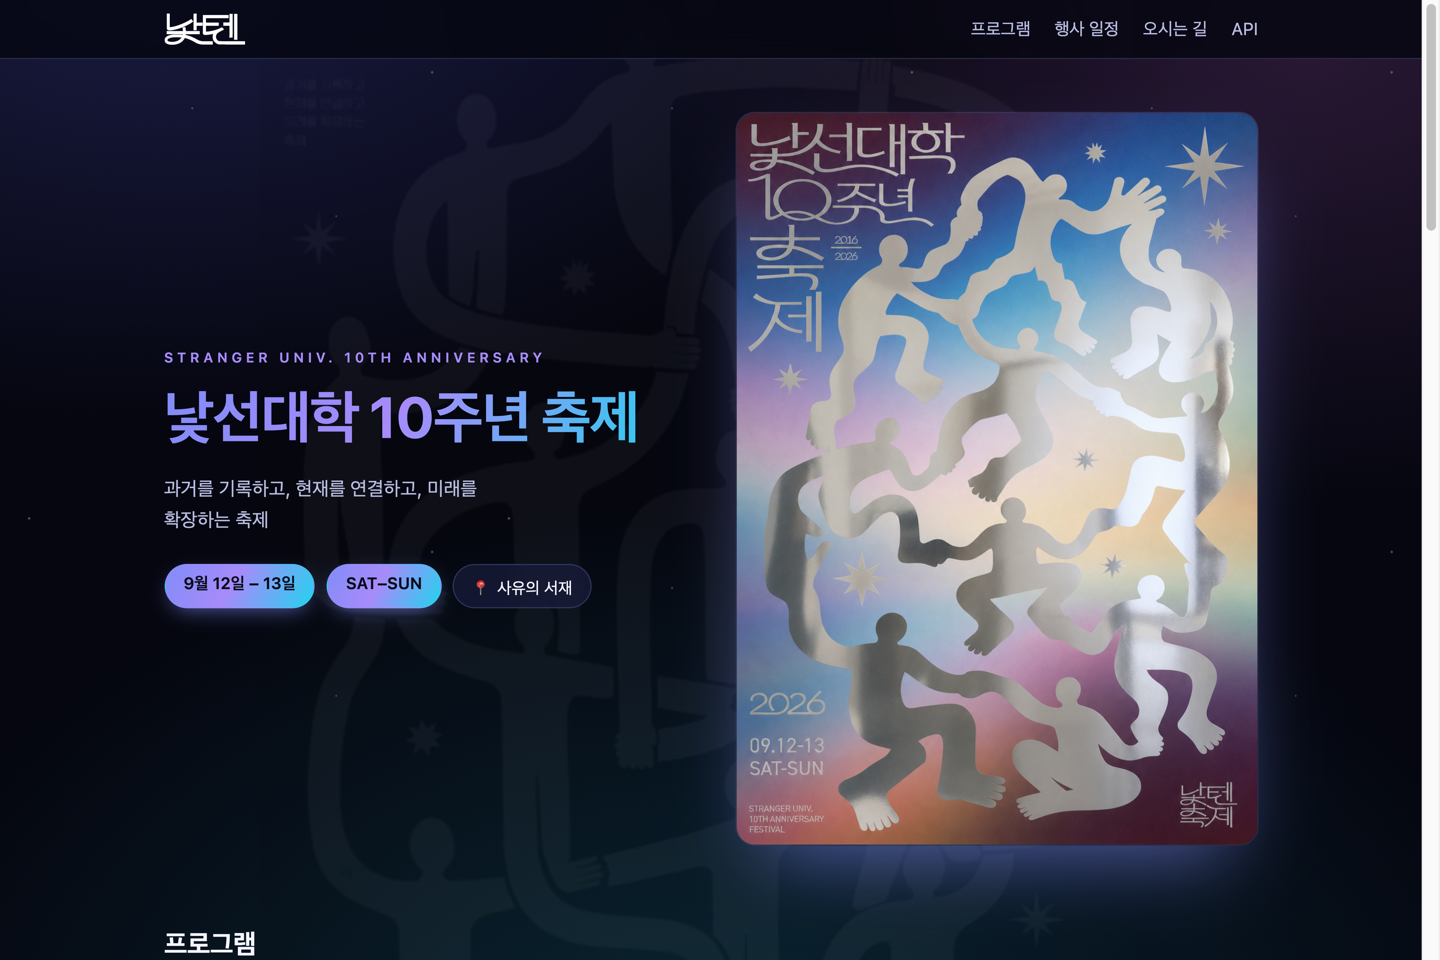
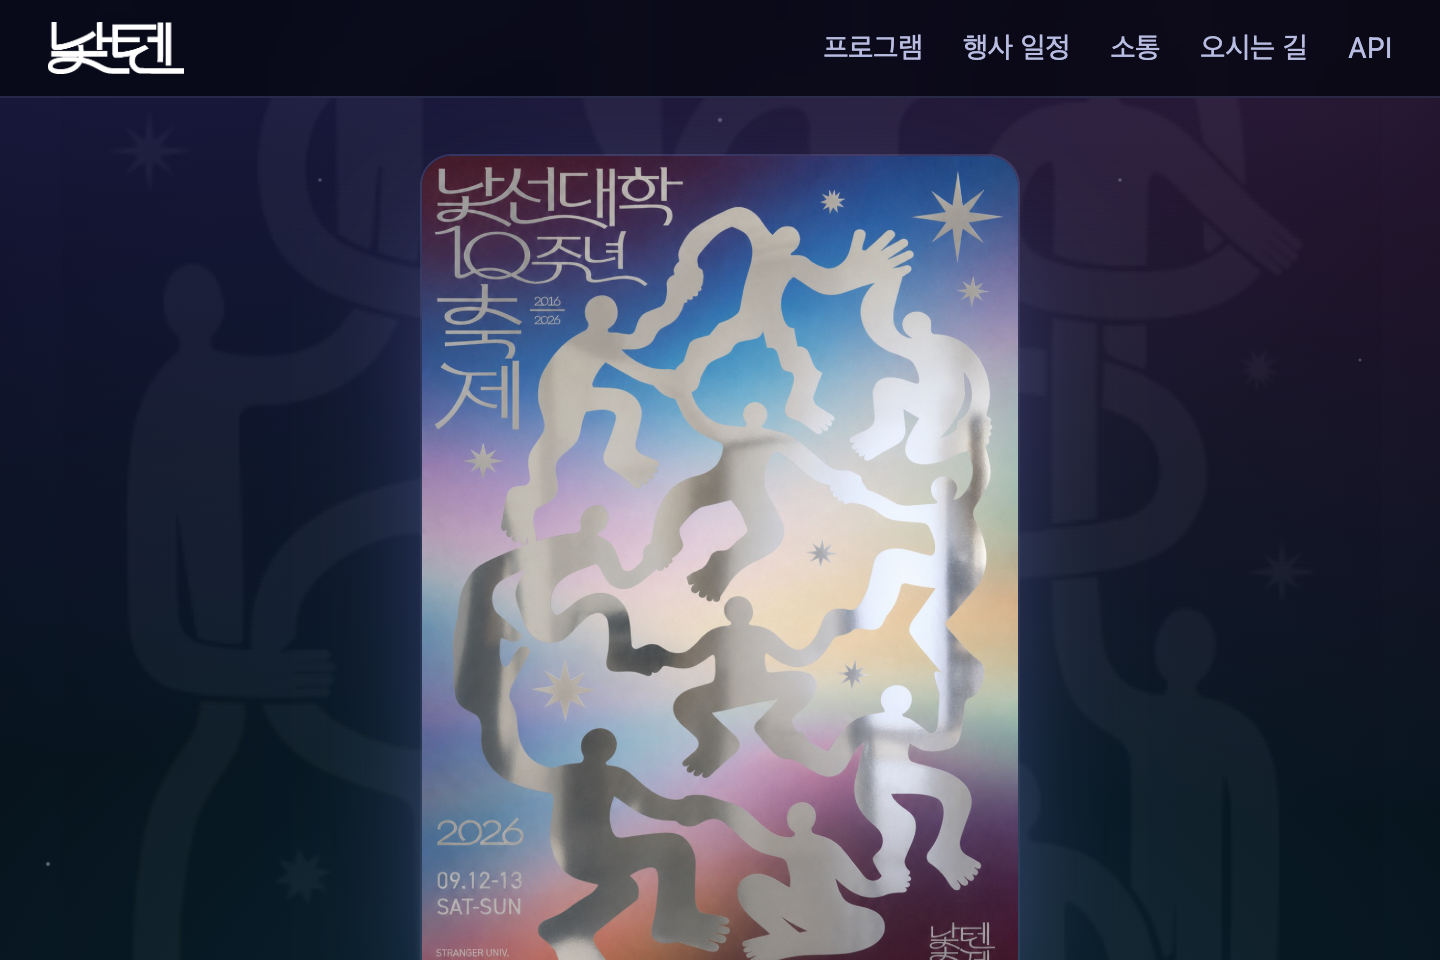
README: 소통(Padlet 보드) 스크린샷 추가 및 미리보기 갱신
소통 섹션 데스크톱 컷(screenshot-board.png) 추가, 데스크톱 히어로와
모바일 컷을 새 네비/소통 화면으로 갱신. 기능 설명에도 소통 반영.

diff --git a/README.md b/README.md
@@ -1,8 +1,8 @@
 # natten-home
 
 낯선대학 10주년 축제(낯텐축제) 홈 서비스. Spring Boot로 만든 축제 랜딩 페이지 —
-프로그램·행사 일정(시간×존 매트릭스)·오시는 길을 제공하고, `/api/festival` JSON API로
-다른 notten 서비스가 축제 정보를 소비할 수 있습니다.
+프로그램·행사 일정(시간×존 매트릭스)·소통(Padlet 보드)·오시는 길을 제공하고,
+`/api/festival` JSON API로 다른 notten 서비스가 축제 정보를 소비할 수 있습니다.
 
 🔗 **라이브: https://shlee-dev012.github.io/natten_home/**
 (로그인·DB가 없어 정적 스냅샷으로 GitHub Pages에 배포됩니다. `main` 푸시마다 자동 갱신)
@@ -11,8 +11,12 @@
 
 ![natten-home 데스크톱 화면](docs/screenshot-desktop.png)
 
+**소통 — 참가자 Padlet 보드를 페이지 안에 임베드**
+
+![소통 메뉴 (Padlet 보드)](docs/screenshot-board.png)
+
 <p align="center">
-  <img src="docs/screenshot-mobile.png" width="320" alt="natten-home 모바일 화면"/>
+  <img src="docs/screenshot-mobile.png" width="320" alt="소통 메뉴 모바일 화면"/>
 </p>
 
 ## 기술 스택
